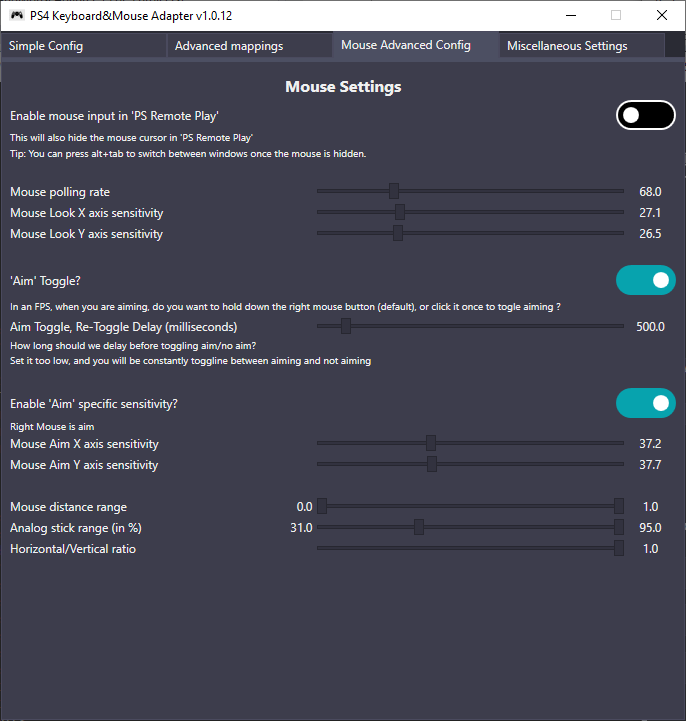
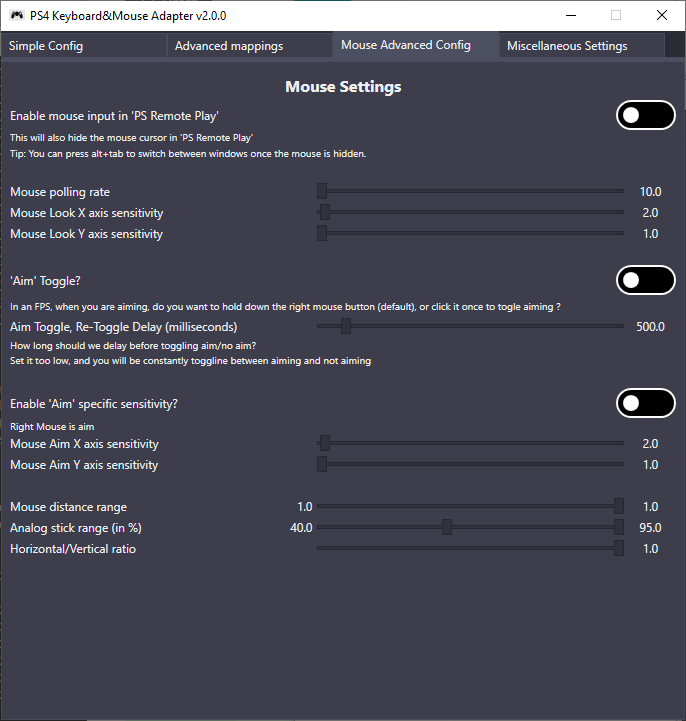
updating documentation and correcting 1.0.12 to 2.0.0 (since it has been such a large rewrite)

diff --git a/PS4KeyboardAndMouseAdapter/UI/Controls/MouseSettingsControl.xaml b/PS4KeyboardAndMouseAdapter/UI/Controls/MouseSettingsControl.xaml
@@ -22,8 +22,8 @@
             <!-- Regular line 21px -->
             <!-- subtext line 15px -->
             <!-- Toggle 30px -->
-            
-            
+
+
             <!-- row 0 -->
             <RowDefinition Height="30px" />
 
@@ -50,6 +50,7 @@
             <!-- row 15 -->
             <RowDefinition Height="30px" />
             <RowDefinition Height="15px" />
+           
             <RowDefinition Height="21px" />
             <RowDefinition Height="21px" />
             <RowDefinition Height="21px" />
@@ -64,7 +65,7 @@
             <!-- row 25 -->
             <RowDefinition Height="21px" />
             <RowDefinition Height="21px" />
-            
+
 
         </Grid.RowDefinitions>
 
@@ -223,7 +224,7 @@
             />
 
         <controls:SliderV
-            Grid.Row="17"
+            Grid.Row="18"
             Description="Mouse Aim X axis sensitivity"
             Minimum="1" 
             Maximum="{Binding Path=UserSettings.MouseXAxisSensitivityMax, Mode=TwoWay, UpdateSourceTrigger=PropertyChanged}"
@@ -231,7 +232,7 @@
             Value="{Binding Path=UserSettings.MouseXAxisSensitivityAimModifier, Mode=TwoWay, UpdateSourceTrigger=PropertyChanged}" />
 
         <controls:SliderV
-            Grid.Row="18"
+            Grid.Row="19"
             Description="Mouse Aim Y axis sensitivity"
             Minimum="1" 
             Maximum="{Binding Path=UserSettings.MouseYAxisSensitivityMax, Mode=TwoWay, UpdateSourceTrigger=PropertyChanged}"
@@ -239,7 +240,7 @@
             Value="{Binding Path=UserSettings.MouseYAxisSensitivityAimModifier, Mode=TwoWay, UpdateSourceTrigger=PropertyChanged}" />
 
         <controls:RangeSlider            
-            Grid.Row="20"
+            Grid.Row="21"
             Description="Mouse distance range"
             Minimum="0" 
             Maximum="{Binding Path=UserSettings.MaxMouseDistance, Mode=TwoWay, UpdateSourceTrigger=PropertyChanged}"
@@ -248,7 +249,7 @@
             x:Name="mouseDistanceRangeSlider"/>
 
         <controls:RangeSlider 
-            Grid.Row="21" 
+            Grid.Row="22" 
             Description="Analog stick range (in %)" 
             LowerValue="{Binding Path=UserSettings.AnalogStickLowerRange, Mode=TwoWay, UpdateSourceTrigger=PropertyChanged}"
             Minimum="0"  
@@ -257,7 +258,7 @@
             x:Name="AnalogStickRangeSlider" />
 
         <controls:SliderV 
-            Grid.Row="22"
+            Grid.Row="23"
             Description="Horizontal/Vertical ratio" 
             Minimum="0.1" 
             Maximum="1" 

diff --git a/PS4KeyboardAndMouseAdapter/UI/Controls/MiscellaneousSettingsControl.xaml b/PS4KeyboardAndMouseAdapter/UI/Controls/MiscellaneousSettingsControl.xaml
@@ -33,12 +33,12 @@
             <RowDefinition Height="30px" />
             <!-- row 1 -->
             <RowDefinition Height="30px" />
-            <RowDefinition Height="21px" />
+            <RowDefinition Height="15px" />
             <RowDefinition Height="21px" />
             <RowDefinition Height="21px" />
 
             <!-- row 5 -->
-            <RowDefinition Height="21px" />
+            <RowDefinition Height="15px" />
             <RowDefinition Height="21px" />
             <RowDefinition Height="21px" />
             <RowDefinition Height="21px" />
@@ -75,10 +75,12 @@
             Grid.Row="2"
             Grid.Column="0"
             Grid.ColumnSpan="5"
+            FontSize="10"
             Text="Sometimes when you have enabled mouse input for RemotePlay, then sometimes you can drag the RemotePlay window offscreen"
             />
 
         <!-- row 3 intentionally empty -->
+        
         <controls:SliderV
             Grid.Row="4"
             Grid.ColumnSpan="5"
@@ -93,6 +95,7 @@
         <TextBlock 
             Grid.Row="5"
             Grid.ColumnSpan="5"
+            FontSize="10"
             Text="Because seems to always RemotePlay reset to 100% volume"
             />
 

diff --git a/PS4KeyboardAndMouseAdapter/Config/UserSettings_Static.cs b/PS4KeyboardAndMouseAdapter/Config/UserSettings_Static.cs
@@ -95,7 +95,7 @@ namespace PS4KeyboardAndMouseAdapter.Config
                 }
             }
 
-            ThisInstance.Version_1_0_12_OrGreater = true;
+            ThisInstance.Version_2_0_0_OrGreater = true;
         }
 
         public static bool IsLegacyConfig(string json)
@@ -109,11 +109,11 @@ namespace PS4KeyboardAndMouseAdapter.Config
                 {
                     try
                     {
-                        if (property.Name == "Version_1_0_12_OrGreater")
+                        if (property.Name == "Version_2_0_0_OrGreater")
                         {
                             // remember to flip this value
                             // if it is 1.0.11 we want to return true
-                            // if it is 1.0.12 or greater we want to return false
+                            // if it is 2.0.0 or greater we want to return false
                             bool value = !(bool)property.Value;
                             return value;
                         }

diff --git a/UnitTests/KeyboardAndMouseAdapter/Config/UserSettings/ImportValuesTest.cs b/UnitTests/KeyboardAndMouseAdapter/Config/UserSettings/ImportValuesTest.cs
@@ -39,10 +39,10 @@ namespace UnitTests.KeyboardAndMouseAdapter.Config.UserSettingsTest
         }
 
         [TestMethod]
-        public void ShouldImport_Profile_1_0_12_Default()
+        public void ShouldImport_Profile_2_0_0_Default()
         {
-            string inputFile = PROFILE_DIRECTORY + "ImportValues--profile-1.0.12-default--input.json";
-            string expectedFile = PROFILE_DIRECTORY + "ImportValues--profile-1.0.12-default--expected.json";
+            string inputFile = PROFILE_DIRECTORY + "ImportValues--profile-2.0.0-default--input.json";
+            string expectedFile = PROFILE_DIRECTORY + "ImportValues--profile-2.0.0-default--expected.json";
             UserSettings.ImportValues(inputFile);
             UserSettings actual = UserSettings.GetInstance();
             actual.KeyboardMappings = null;

diff --git a/PS4KeyboardAndMouseAdapter/Properties/AssemblyInfo.cs b/PS4KeyboardAndMouseAdapter/Properties/AssemblyInfo.cs
@@ -10,7 +10,7 @@ using System.Windows;
 [assembly: AssemblyConfiguration("")]
 [assembly: AssemblyCompany("")]
 [assembly: AssemblyProduct("PS4KeyboardAndMouseAdapter")]
-[assembly: AssemblyCopyright("Copyright ©  2019")]
+[assembly: AssemblyCopyright("Copyright © 2019-2021")]
 [assembly: AssemblyTrademark("")]
 [assembly: AssemblyCulture("")]
 
@@ -49,6 +49,6 @@ using System.Windows;
 // You can specify all the values or you can default the Build and Revision Numbers
 // by using the '*' as shown below:
 // [assembly: AssemblyVersion("1.0.*")]
-[assembly: AssemblyVersion("1.0.12.0")]
-[assembly: AssemblyFileVersion("1.0.12.0")]
+[assembly: AssemblyVersion("2.0.0.0")]
+[assembly: AssemblyFileVersion("2.0.0.0")]
 

diff --git a/UnitTests/KeyboardAndMouseAdapter/Config/UserSettings/IsLegacyConfigTest.cs b/UnitTests/KeyboardAndMouseAdapter/Config/UserSettings/IsLegacyConfigTest.cs
@@ -23,9 +23,9 @@ namespace UnitTests.KeyboardAndMouseAdapter.Config.UserSettingsTest
         }
 
         [TestMethod]
-        public void ShouldDetect_1_0_12_IsCurrent()
+        public void ShouldDetect_2_0_0_IsCurrent()
         {
-            string file = PROJECT_ROOT + "UnitTests\\KeyboardAndMouseAdapter\\Config\\UserSettings\\IsLegacyConfig--profile-1.0.12-provisional.json";
+            string file = PROJECT_ROOT + "UnitTests\\KeyboardAndMouseAdapter\\Config\\UserSettings\\IsLegacyConfig--profile-2.0.0-provisional.json";
             IsLegacyConfigRunner(file, false);
         }
     }

diff --git a/PS4KeyboardAndMouseAdapter/Config/UserSettings_Instance.cs b/PS4KeyboardAndMouseAdapter/Config/UserSettings_Instance.cs
@@ -20,7 +20,7 @@ namespace PS4KeyboardAndMouseAdapter.Config
         // false if we need to migrate
         // true means we can ignore
         // default if false until we find a value
-        public bool Version_1_0_12_OrGreater { get; set; } = false;
+        public bool Version_2_0_0_OrGreater { get; set; } = false;
 
         public Dictionary<VirtualKey, PhysicalKeyGroup> Mappings { get; set; } = new Dictionary<VirtualKey, PhysicalKeyGroup>();
 

diff --git a/PS4KeyboardAndMouseAdapter/Config/UserSettings_1_0_11.cs b/PS4KeyboardAndMouseAdapter/Config/UserSettings_1_0_11.cs
@@ -103,7 +103,7 @@ namespace PS4KeyboardAndMouseAdapter.Config
             AddManualMouseMapping(newSettings, VirtualKey.L2, MouseButton.Right);
             AddManualMouseMapping(newSettings, VirtualKey.R2, MouseButton.Left);
 
-            newSettings.Version_1_0_12_OrGreater = true;
+            newSettings.Version_2_0_0_OrGreater = true;
 
             return newSettings;
         }

diff --git a/README.md b/README.md
@@ -1,6 +1,9 @@
 # PS4 Keyboard and Mouse Adapter 
 Disclaimer: This project is not endorsed or certified by Sony, Playstation or any of their partners.
 
+## UI
+
+Click the images for bigger views
 
 <a href="documentation/example-ui-1.png" target="_blank"><img src="documentation/example-ui-1.png" alt="example UI Tab 1" width="200"/></a>
 <a href="documentation/example-ui-2.png" target="_blank"><img src="documentation/example-ui-2.png" alt="example UI Tab 2" width="200"/></a>
@@ -49,7 +52,6 @@ But some popular topics are
 * [Mouse Configuration](documentation/mouse-configuration.md)
 * [Troubleshooting](documentation/troubleshooting.md)
 * [Version History](documentation/version-history.md)
-
 
 
 ## Credits

diff --git a/documentation/mouse-configuration.md b/documentation/mouse-configuration.md
@@ -42,7 +42,7 @@ The time milliseconds before we toggle aim toggle
 Set this too low, and keep holding the button for L2, and you will appear as if you cant decide between aiming or not aimining.
 
 
-## Enable 'Aim' specific sensitivity
+#### Enable 'Aim' specific sensitivity
 Would you like to have a seperate sensitivity for when you Aim?
 
 
